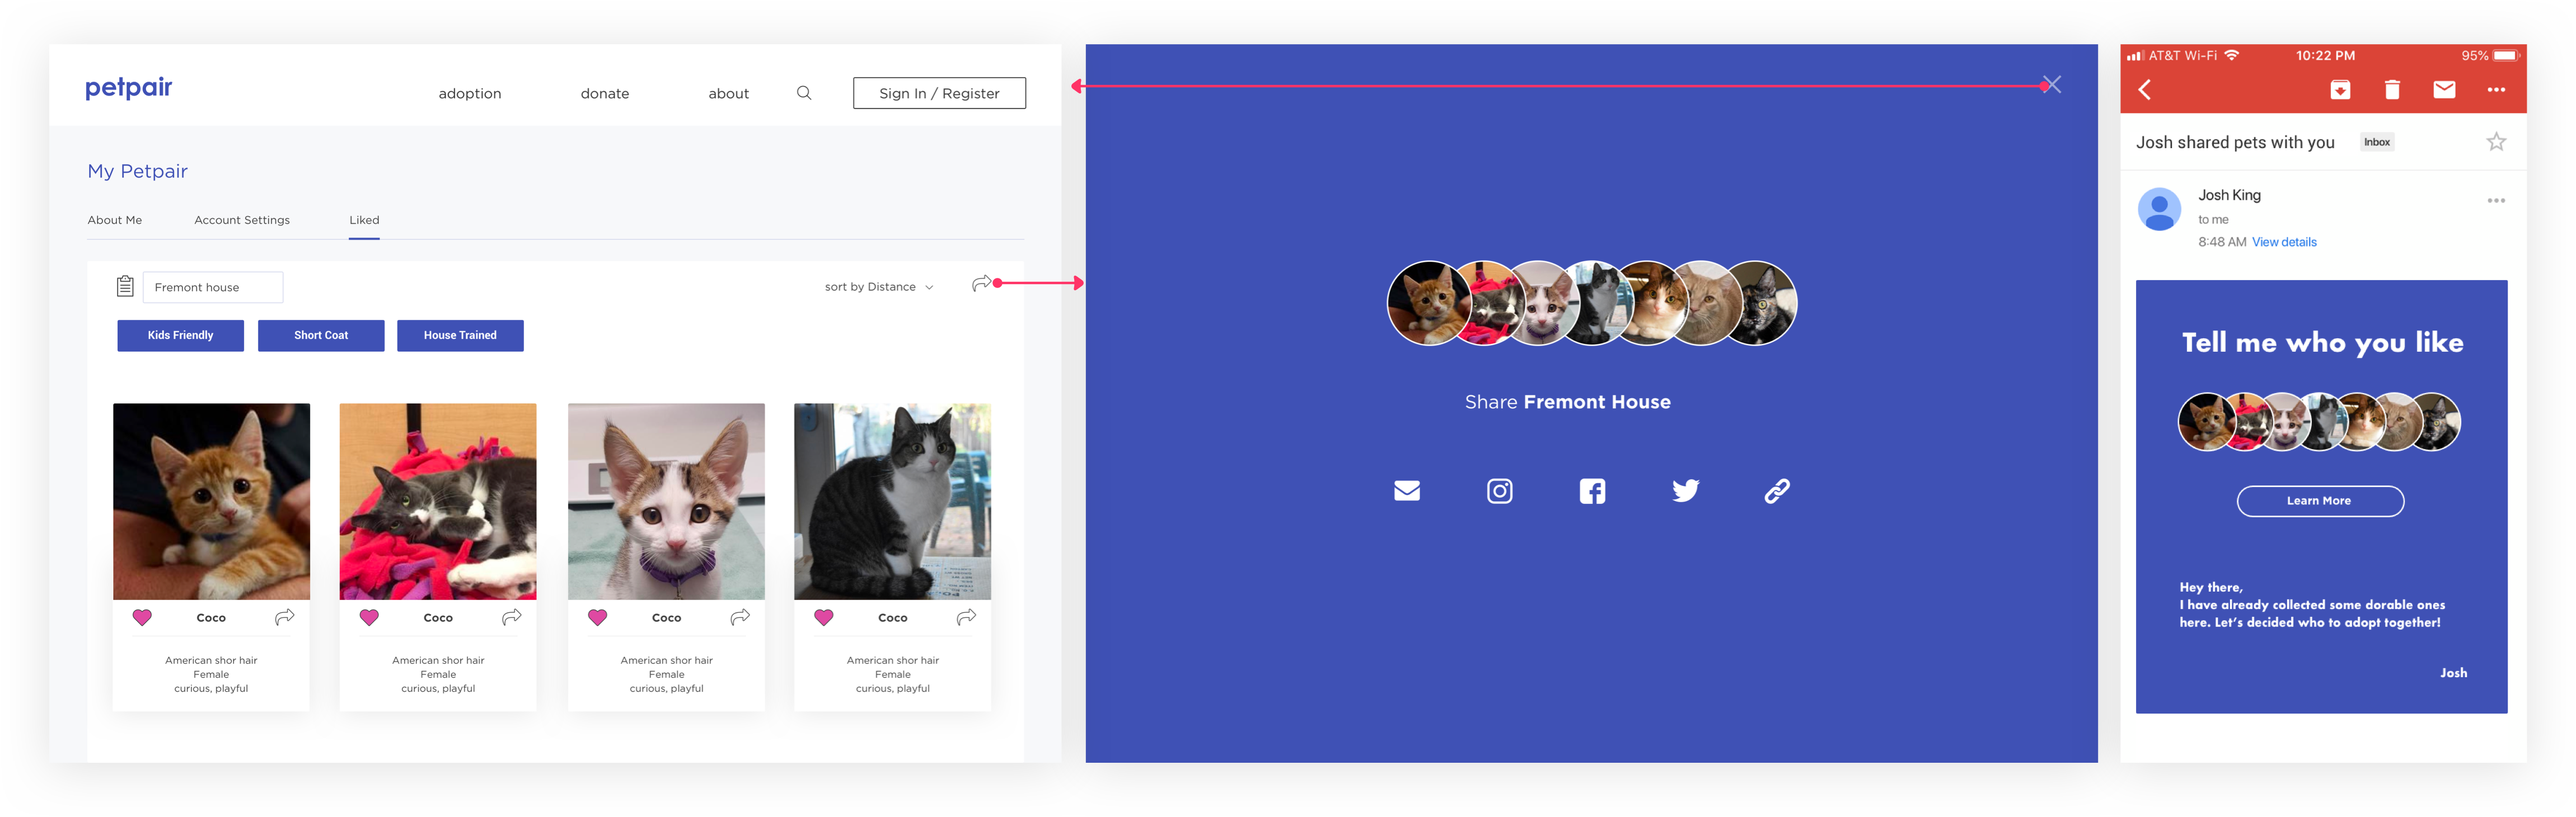
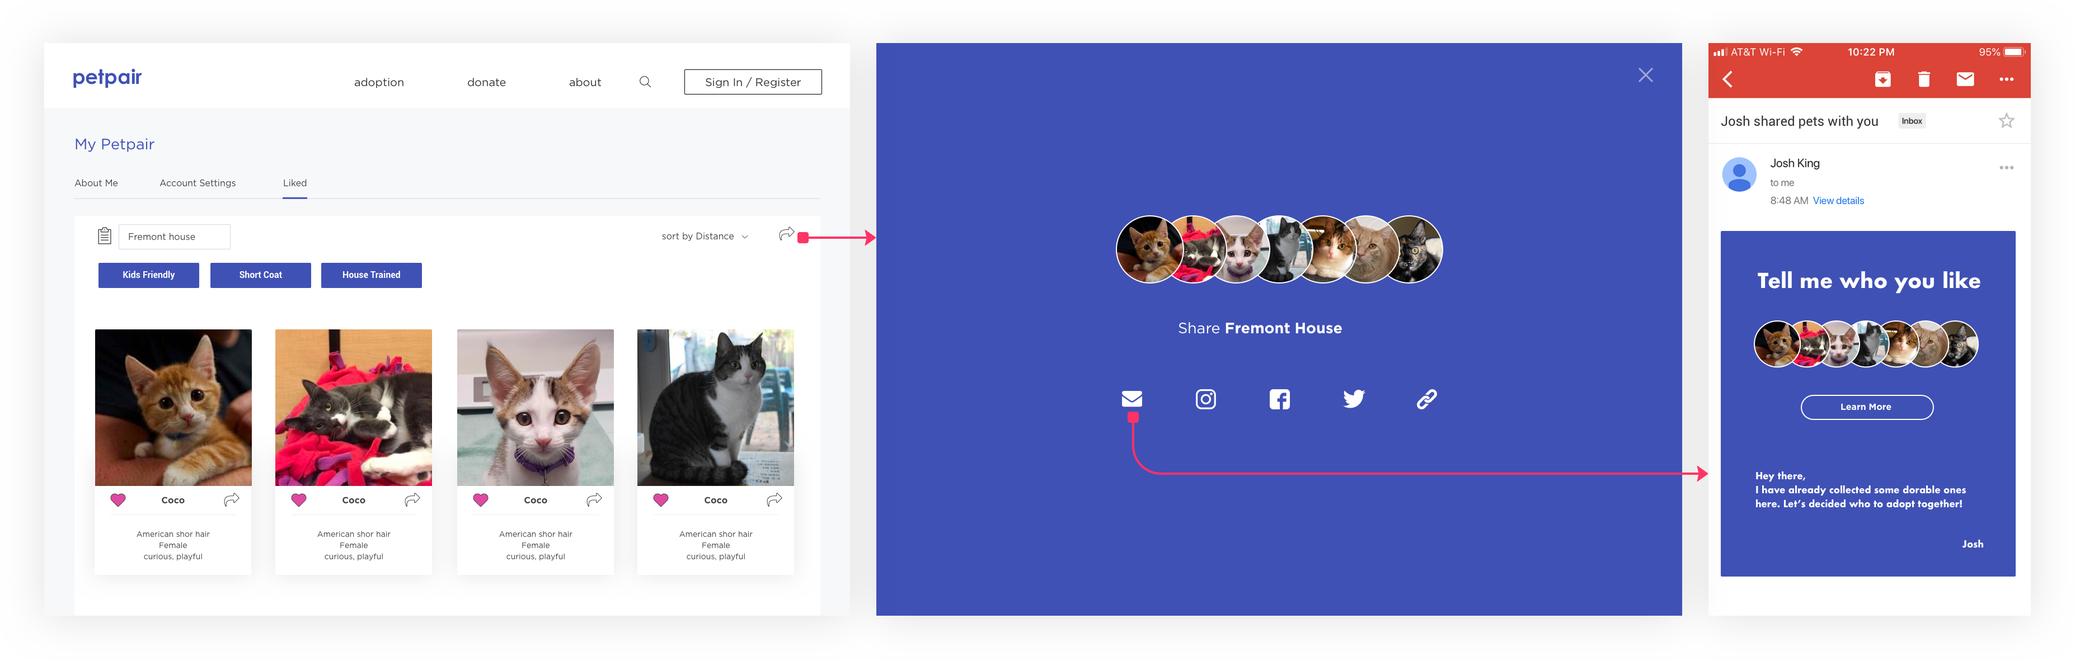
@hd updated

diff --git a/src/component/Work/petpair.js b/src/component/Work/petpair.js
@@ -421,9 +421,9 @@ Since it will not launch soon, I won’t dig into the metrics too much. But here
                   }
                 }}
                 zoomImage={{
-                  src: 'petpair/wireframe-all@3x.png',
+                  src: 'petpair/wireframe-all@hd.png',
                   style: {
-                    width: '3000px'
+                    width: '11327px'
                   }
                 }}
                 shouldReplaceImage={false}
